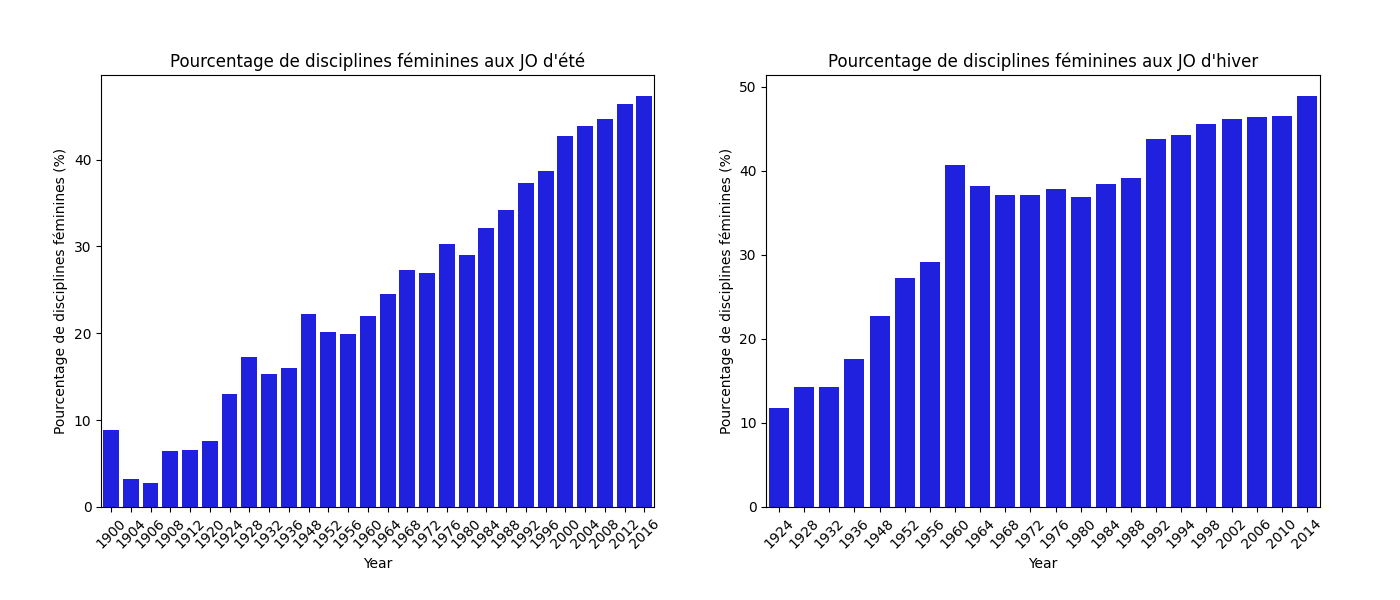
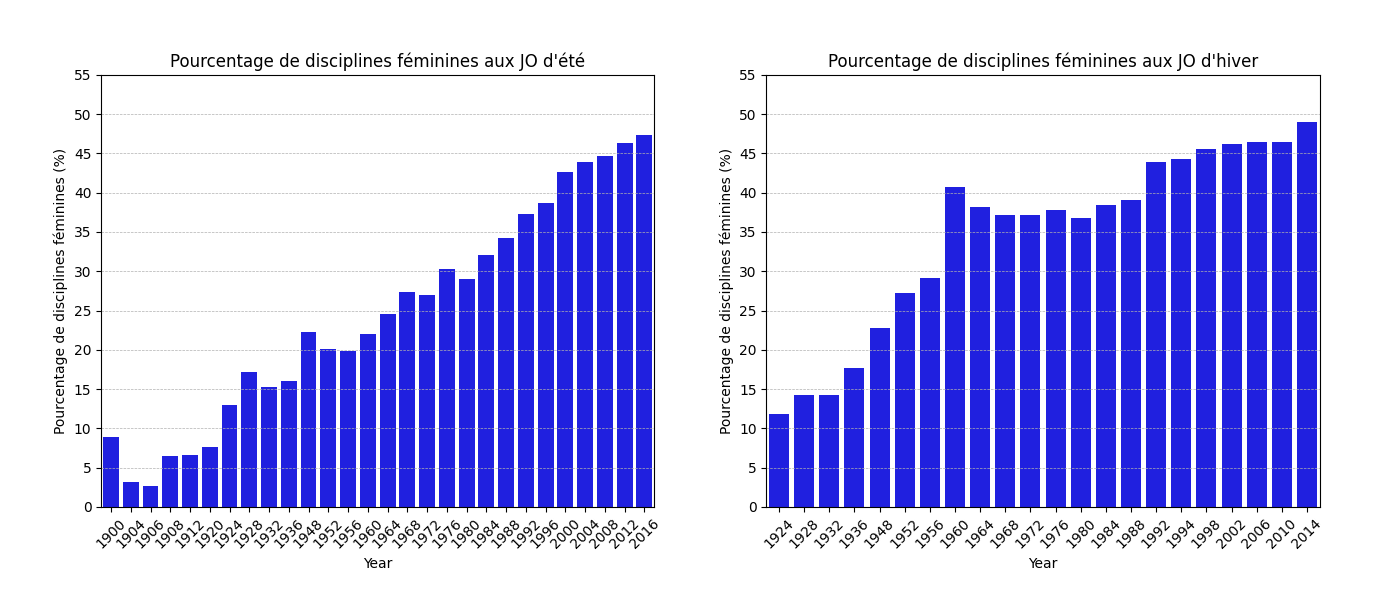
rajout ligne dans graphiques parités des disciplines

diff --git a/partie_Eulalie.py b/partie_Eulalie.py
@@ -3,6 +3,7 @@ import csv
 import os
 import matplotlib.pyplot as plt
 import seaborn as sns
+import numpy as np
 
 athlete = pd.read_csv(
     "donnees_jeux_olympiques/donnees_jeux_olympiques/athlete_events.csv"
@@ -150,12 +151,16 @@ def parite_disc_hommes_femmes():
 
     # Graphique pour l'été
     sns.barplot(data=disc_table_ete, x="Year", y="Pct_f", color="blue", ax=axes[0])
+    axes[0].set_yticks(np.arange(0, disc_table_ete["Pct_f"].max() + 10, 5))
+    axes[0].grid(True, which='both', axis='y', linestyle='--', linewidth=0.5)
     axes[0].set_title("Pourcentage de disciplines féminines aux JO d'été")
     axes[0].set_ylabel("Pourcentage de disciplines féminines (%)")
     axes[0].tick_params(axis='x', rotation=45)
 
     # Graphique pour l'hiver
     sns.barplot(data=disc_table_hiv, x="Year", y="Pct_f", color="blue", ax=axes[1])
+    axes[1].set_yticks(np.arange(0, disc_table_hiv["Pct_f"].max() + 10, 5))
+    axes[1].grid(True, which='both', axis='y', linestyle='--', linewidth=0.5)
     axes[1].set_title("Pourcentage de disciplines féminines aux JO d'hiver")
     axes[1].set_ylabel("Pourcentage de disciplines féminines (%)")
     axes[1].tick_params(axis='x', rotation=45)
